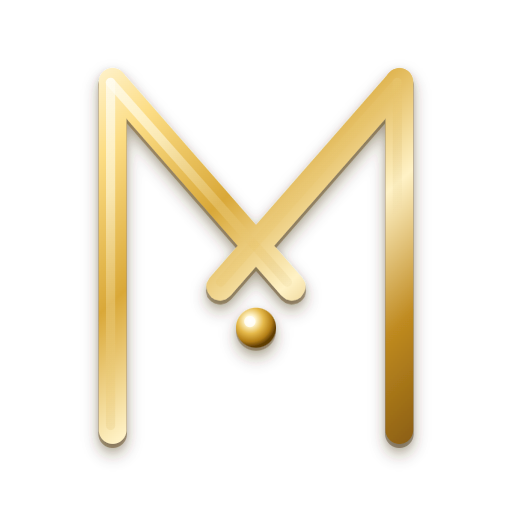
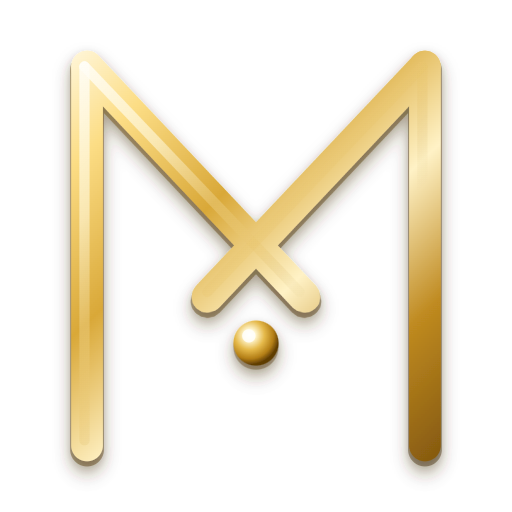
style(homepage): enlarge Malabar Gold M emblem proportion inside 48px circle badge

diff --git a/index.html b/index.html
@@ -642,7 +642,7 @@
                         <div
                             class="absolute -bottom-5 -left-4 sm:-bottom-6 sm:-left-6 bg-white p-4 sm:p-5 shadow-luxury border border-light-beige flex items-center gap-3 sm:gap-4 z-20">
                             <div
-                                class="w-12 h-12 bg-luxury-bg rounded-full flex items-center justify-center p-2.5 border border-luxury-gold flex-shrink-0 shadow-sm">
+                                class="w-12 h-12 bg-luxury-bg rounded-full flex items-center justify-center p-1.5 border border-luxury-gold flex-shrink-0 shadow-sm">
                                 <picture>
                                     <source srcset="/assets/images/malabar-gold-m.svg" type="image/svg+xml">
                                     <img src="/assets/images/malabar-gold-m.svg" alt="Malabar Gold &amp; Diamonds" width="48" height="48" class="w-full h-full object-contain" loading="eager" decoding="async">
